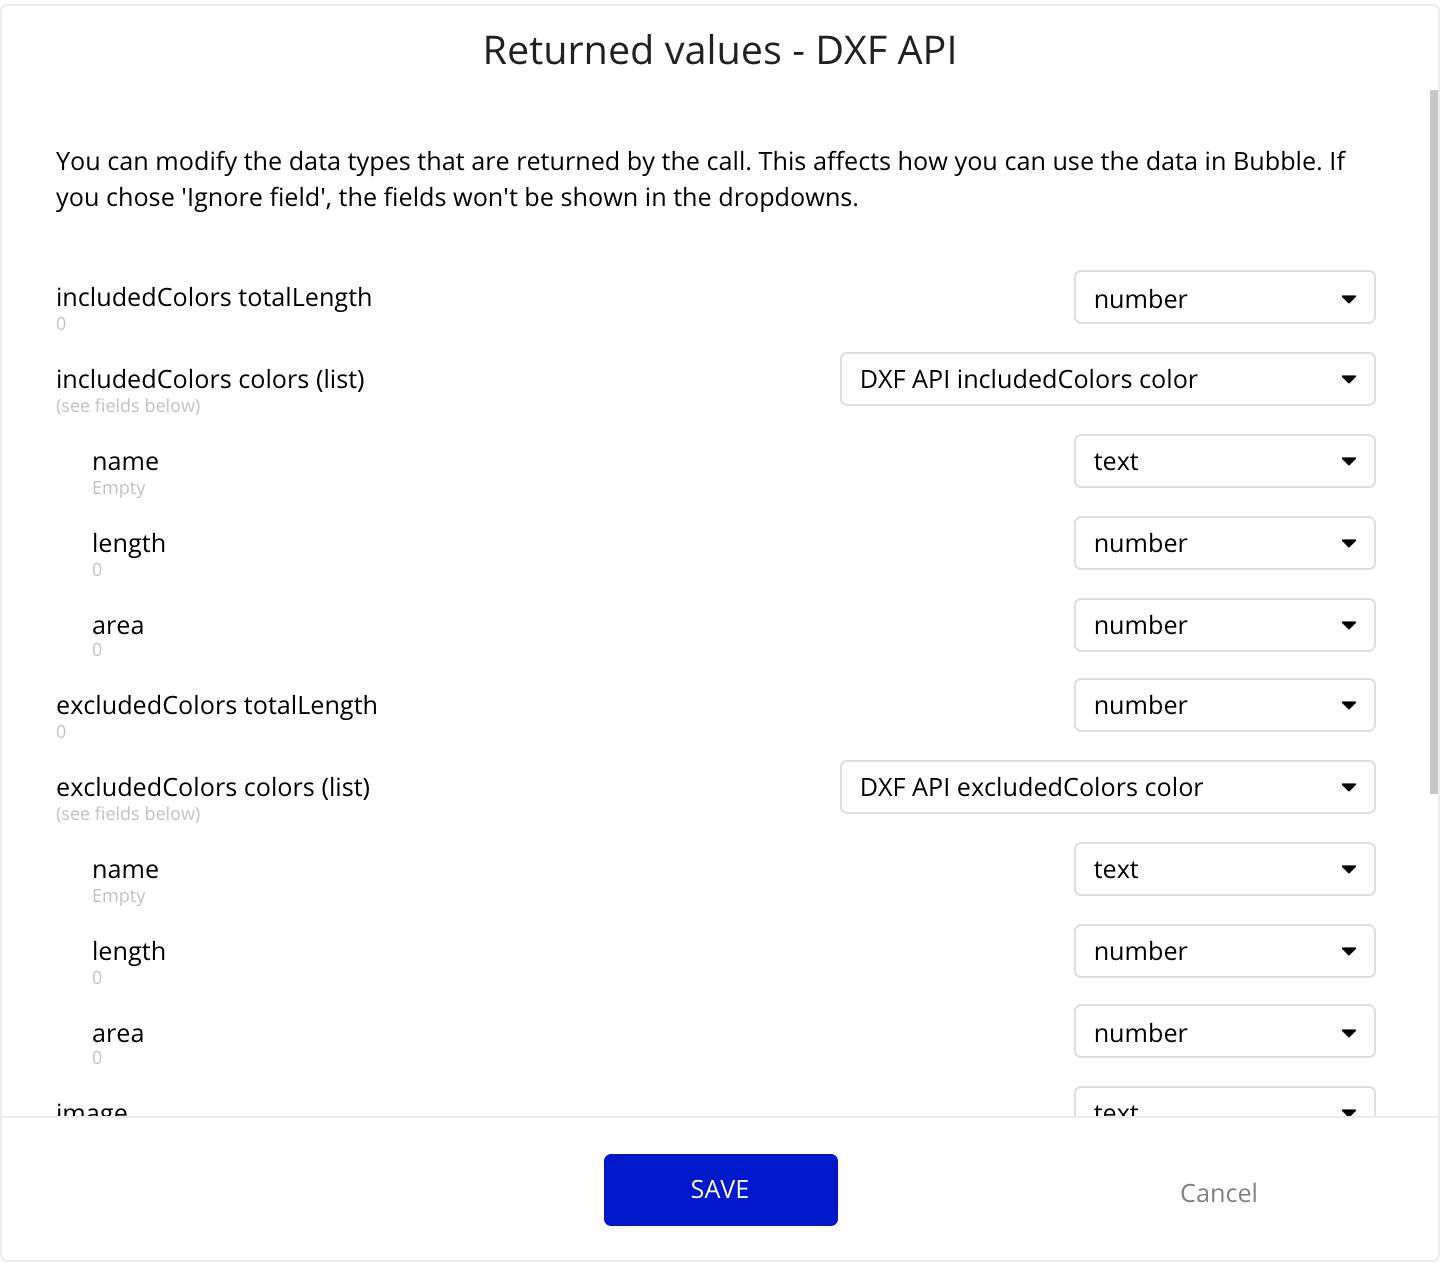
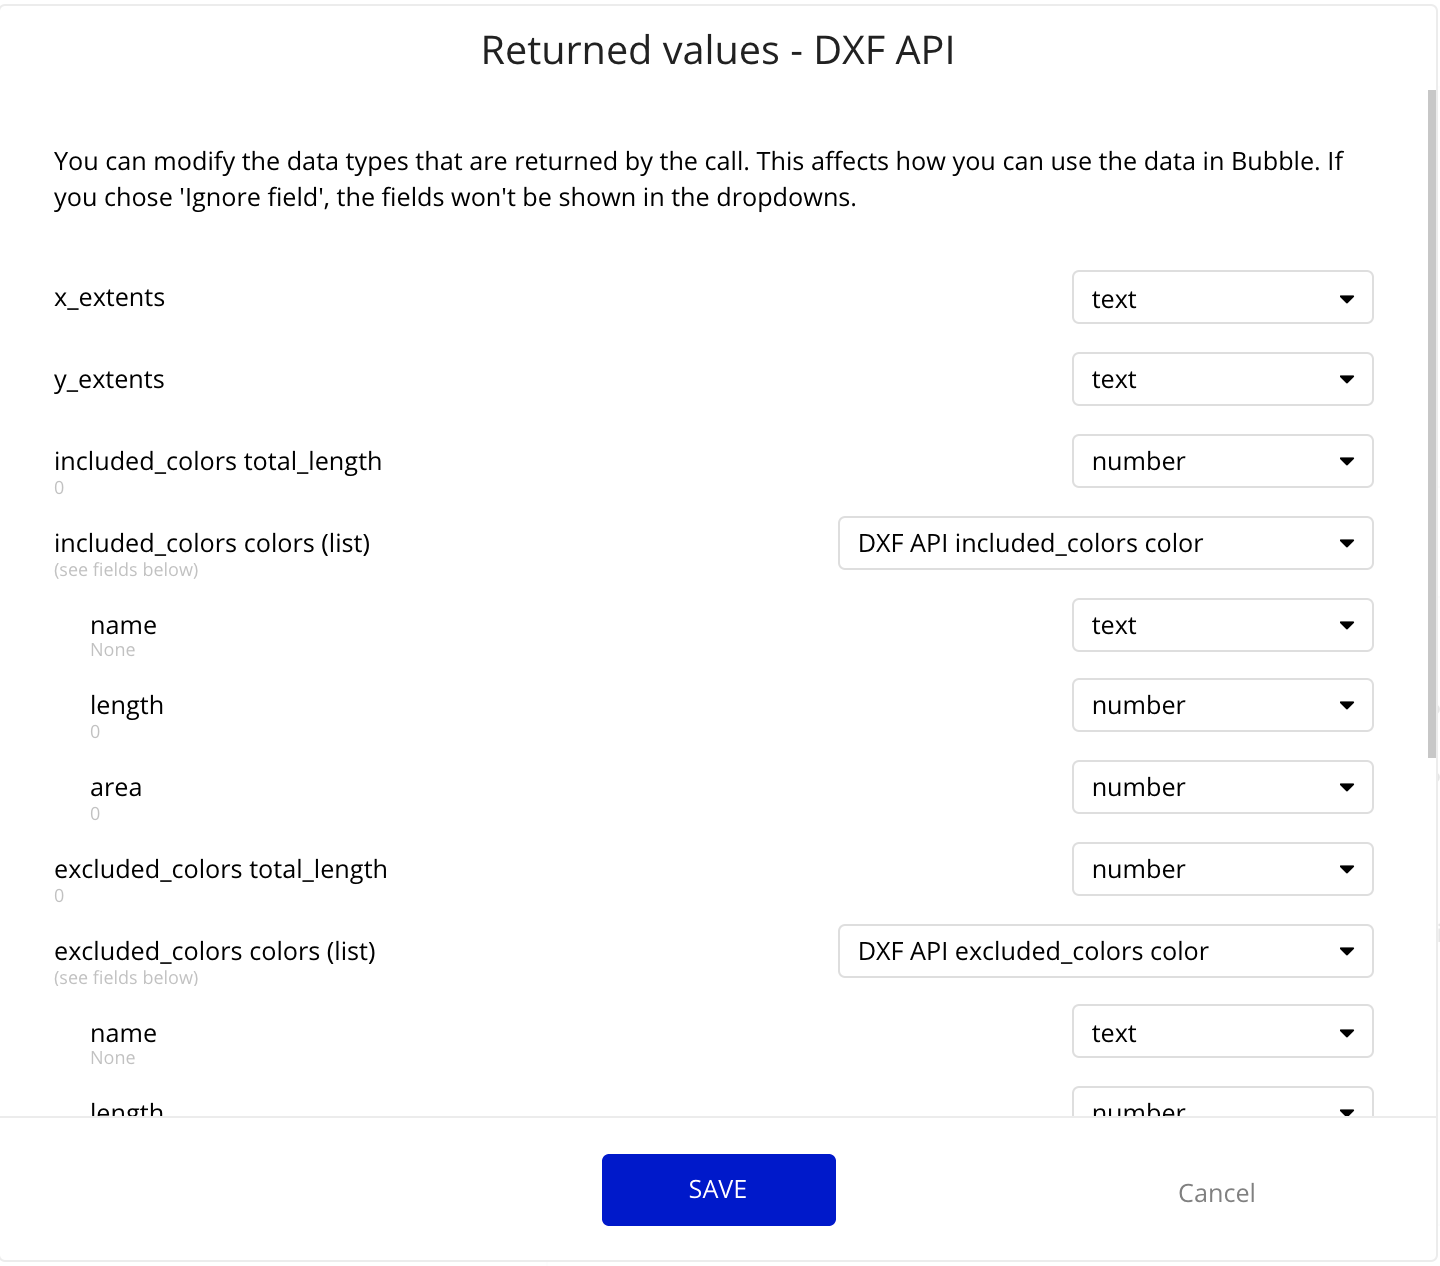
updated readme

diff --git a/readme.md b/readme.md
@@ -85,12 +85,12 @@ Go ahead and initialize the call by pressing "Initialize call" at the bottom and
 ![image](./readmeimages/api-return-data.png)
 
 ## Using API call in Bubble
-* ### Example external API call for x_extents on Text Box:
-To grab data from the API, simply insert dynamic data -> Get data from an external API -> choose 'DXF - DXF API' as the API provider -> fill in the parameters -> use x_extents. It should look like this:
+* ### Example external API call for extents on Text Box:
+To grab data from the API, simply insert dynamic data -> Get data from an external API -> choose 'DXF - DXF API' as the API provider -> fill in the parameters -> use x_extents. Fill in a separator and repeat the process choosing y_extents this time. It should look like this:
 ![image](./readmeimages/api-text-example.png)
 
 * ### Example external API call on Repeating Group:
-We'll use the same approach as the text box example. Set the Data Source first by: Get data from an external API -> choose 'DXF - DXF API' as the API provider -> fill in the parameters -> use colors.We then choose the Type of Content, either 'DXF API included_colors color' or 'DXF API excluded_colors color' depending on what you need. It should look like this:
+We'll use the same approach as the text box example. Set the Data Source first by: Get data from an external API -> choose 'DXF - DXF API' as the API provider -> fill in the parameters -> use colors. We then choose the Type of Content, either 'DXF API included_colors color' or 'DXF API excluded_colors color' depending on what you need. It should look like this:
 ![image](./readmeimages/api-rg-example.png)
 
 included_colors color will be a list of color calculations with fields name, length, and area data. You can display these in your Repeating Group with 3 text boxes representing each field like so:
